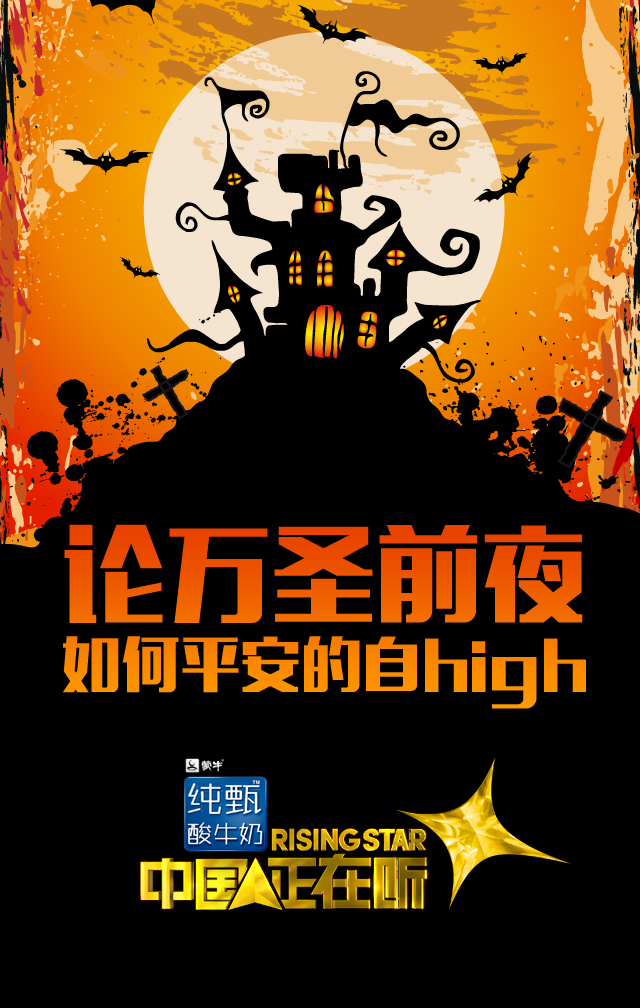
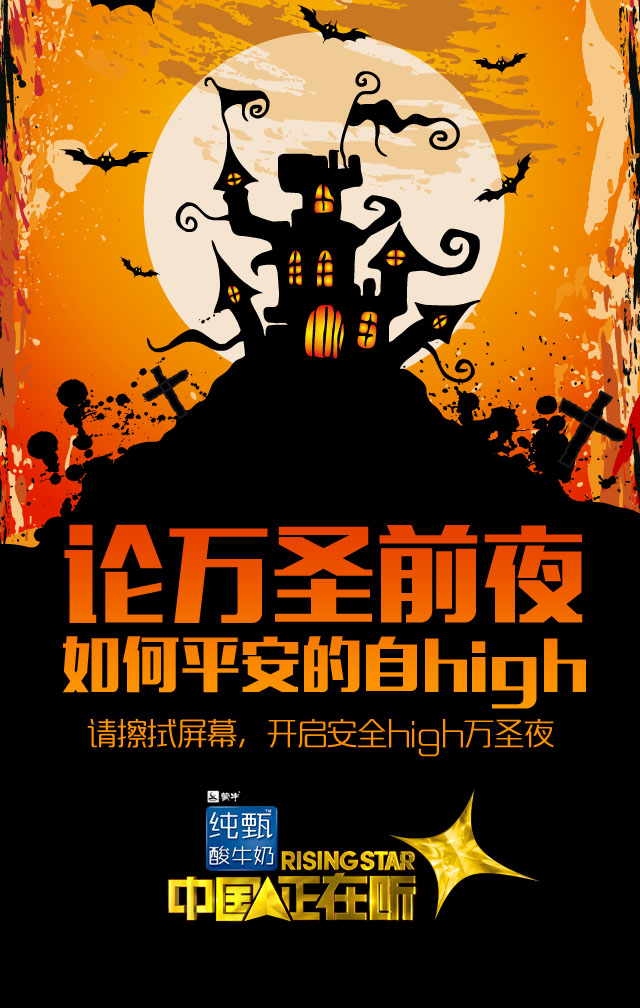
update

Changed region(s): [[0.125, 0.7073, 0.875, 0.9226]]

diff --git a/js/main.js b/js/main.js
@@ -4,9 +4,13 @@ $(function () {
 
   $('#index_img').eraser({
     progressFunction: function(p) {
-      if(p>=0.5){
-        $('#index_img').eraser('clear');
-        $('#index_img').hide();
+      if(p>=0.3){
+        //$('#index_img').eraser('clear');
+        $('#index_img').addClass("animated fadeOut");
+        $("#index_img").one('webkitAnimationEnd mozAnimationEnd MSAnimationEnd oanimationend animationend', function(){    
+          $("#index_img").removeClass("animated fadeOut");
+          $('#index_img').hide();
+        });
       }
     },
     size:80

diff --git a/index.html b/index.html
@@ -289,12 +289,12 @@
 
       @-webkit-keyframes fadeOut {
         0% {}
-        100% {}
+        100% {opacity: 0;}
       }
 
       @keyframes fadeOut {
         0% {}
-        100% {}
+        100% {opacity: 0;}
       }
 
       .fadeOut {
